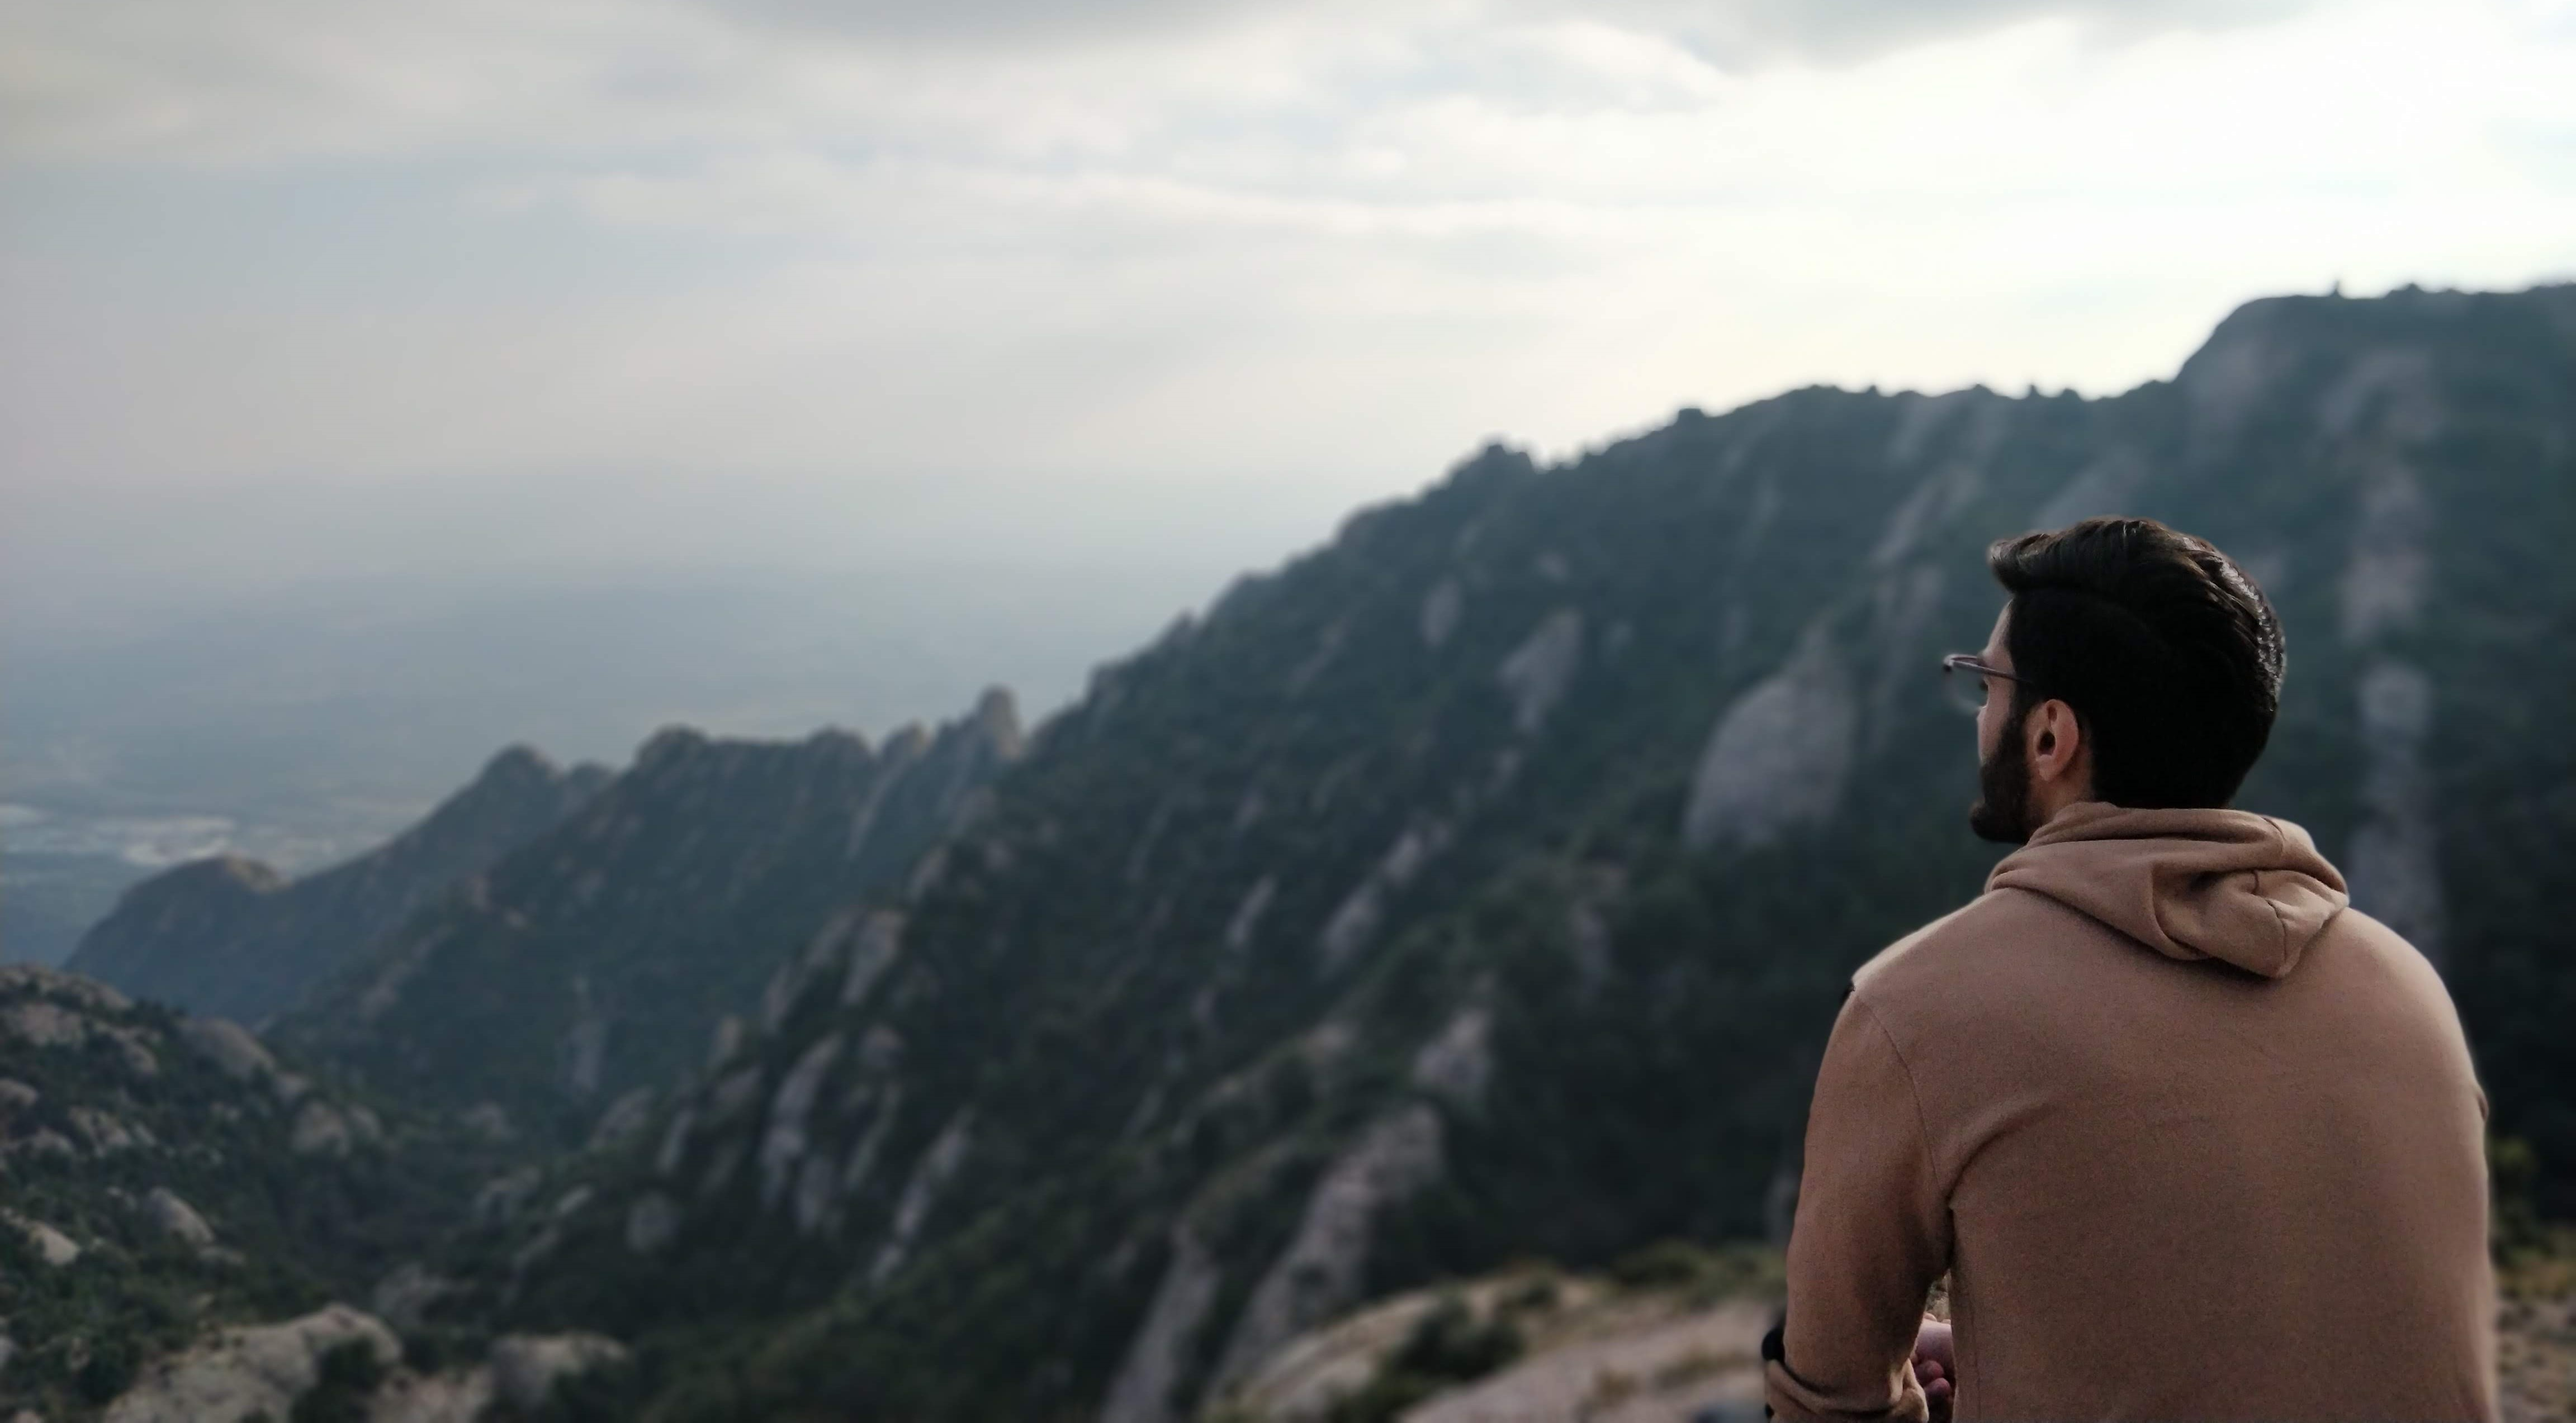
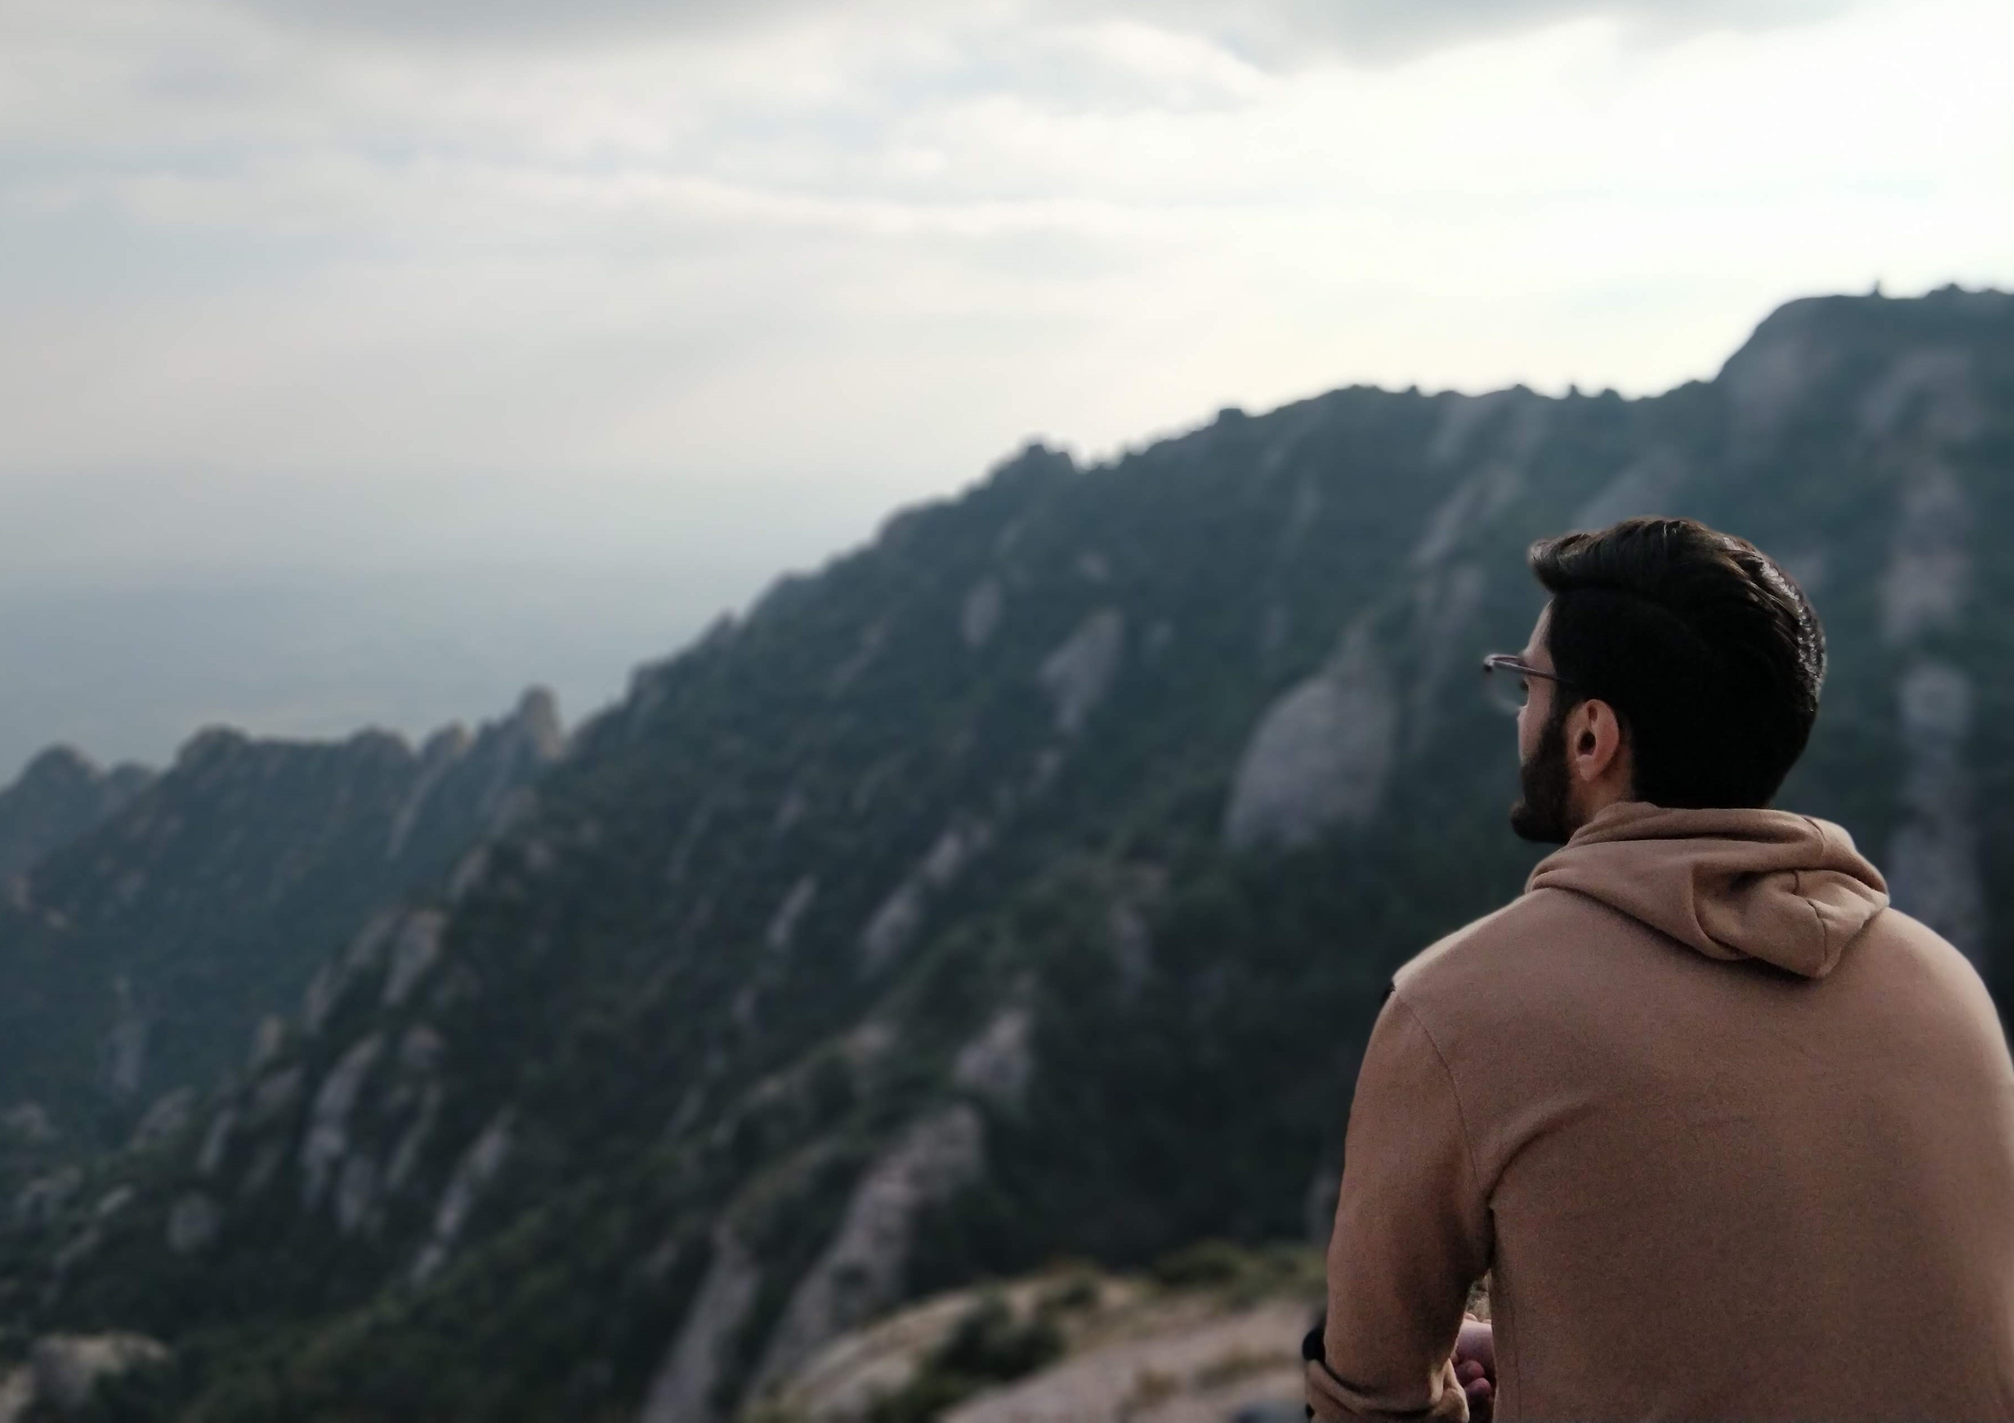
- about me page header and nav bar issues fixed - new background - fixed copied to clipboard to work properly on all screens

diff --git a/aboutme.html b/aboutme.html
@@ -6,7 +6,7 @@
 -->
 <html>
 	<head>
-		<title>About Me</title>
+		<title>Saksham Malhotra</title>
 		<meta charset="utf-8" />
 		<meta name="viewport" content="width=device-width, initial-scale=1, user-scalable=no" />
 		<link rel="stylesheet" href="assets/css/main.css" />
@@ -17,6 +17,16 @@
 		<!-- Wrapper -->
 			<div id="wrapper">
 
+				<!-- Intro -->
+					<div id="intro">
+						<h1>Hi, I'm <br />
+						Saksham Malhotra</h1>
+						<p>This is a collection of some of my projects/designs.</p>
+						<ul class="actions">
+							<li><a href="#header" class="button icon solid solo fa-arrow-down scrolly">Continue</a></li>
+						</ul>
+					</div>
+
 				<!-- Header -->
 					<header id="header">
 						<a href="index.html" class="logo">Saksham Malhotra</a>
@@ -26,8 +36,7 @@
 					<nav id="nav">
 						<ul class="links">
 							<li><a href="index.html">Projects</a></li>
-							<!-- <li><a href="generic.html">Generic Page</a></li> -->
-							<li class="active"><a href="aboutme.html">About Me</a></li>
+							<li class="active"><a href="aboutme.html#header">About Me</a></li>
 						</ul>
 						<ul class="icons popup">
 							<span class="popuptext" id="copiedPopUp">Copied to Clipboard!</span>

diff --git a/assets/css/main.css b/assets/css/main.css
@@ -2692,36 +2692,24 @@ input, select, textarea {
 /* The actual popup */
 .popup .popuptext {
   visibility: hidden;
-  width: 180px;
-	height: 75px;
+	height: 4rem;
+	width: 10.375rem;
+	/*line-height: 4rem;*/
+	/*margin: -4rem auto 0 auto;*/
 	background-color: #ffffff;
   color: #1e252d;
   text-align: center;
-  border-radius: 6px;
-  padding: 8px 0;
+  /*border-radius: 6px;*/
+  /*padding: 8px 0;*/
   position: absolute;
   z-index: 1;
-  bottom: -7.5%;
-  left: 50%;
-  margin-left: -80px;
 	font-family: "Source Sans Pro", Helvetica, sans-serif;
 	font-size: 0.8rem;
 	text-transform: uppercase;
 }
 
-/* Popup arrow
-.popup .popuptext::after {
-  content: "";
-  position: absolute;
-  top: 100%;
-  left: 50%;
-  margin-left: -5px;
-  border-width: 5px;
-  border-style: solid;
-  border-color: #555 transparent transparent transparent;
-} */
 
-/* Toggle this class - hide and show the popup */
+/* Toggle these classes - hide and show the popup */
 .popup .show {
   visibility: visible;
   -webkit-animation: fadeIn 0.75s;

diff --git a/aboutme0.html b/aboutme0.html
@@ -15,7 +15,7 @@
 	<body class="is-preload">
 
 		<!-- Wrapper -->
-			<div id="wrapper" class="fade-in">
+			<div id="wrapper">
 
 				<!-- Intro -->
 					<div id="intro">
@@ -35,8 +35,9 @@
 				<!-- Nav -->
 					<nav id="nav">
 						<ul class="links">
-							<li class="active"><a href="index.html">Projects</a></li>
-							<li><a href="aboutme.html#header">About Me</a></li>
+							<li><a href="index.html">Projects</a></li>
+						 	<li class="active"><a href="aboutme0.html#header">About Me 0</a></li>
+							<li><a href="aboutme.html">About Me</a></li>
 						</ul>
 						<ul class="icons popup">
 							<span class="popuptext" id="copiedPopUp">Copied to Clipboard!</span>

diff --git a/assets/js/main.js b/assets/js/main.js
@@ -277,14 +277,6 @@
 
     })
 
-
-		// Pop up appear and dissapear
-		$('.popUpandDisapear').click(function() {
-		 	//setTimeout(function () {
-		  //	$(this).popup('close');
-		 	//}, 5000);
-		});
-
 		}
 
 })(jQuery);
